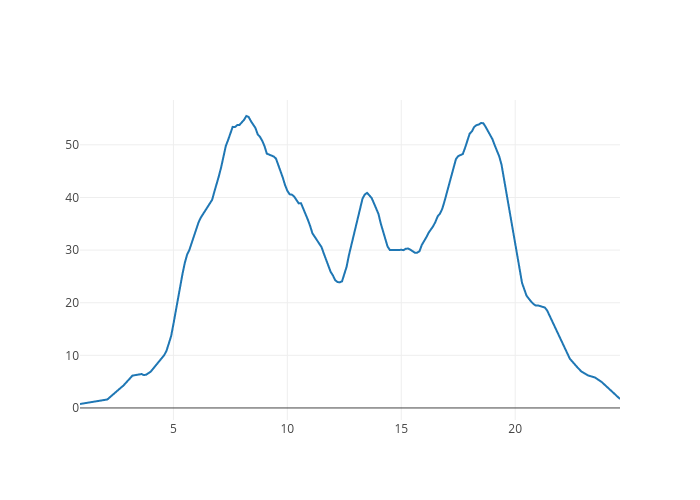
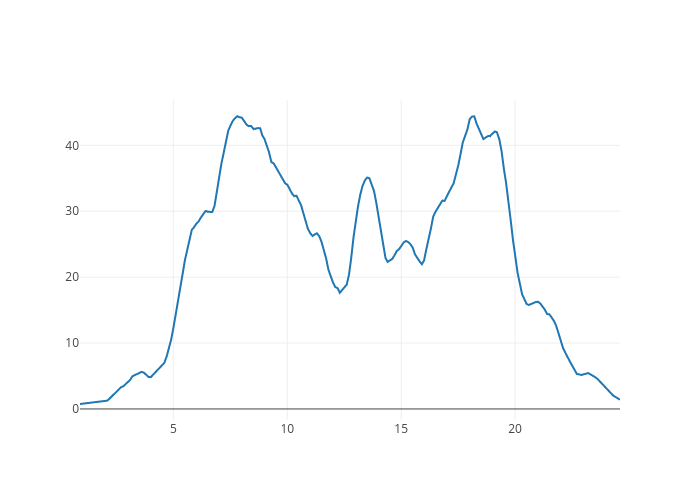
Divided samples visualization improved

diff --git a/Lab1/Tools/params_estimation.py b/Lab1/Tools/params_estimation.py
@@ -37,7 +37,7 @@ class Estimator:
         m = Distribution(sample)
         for i in range(100):
             sample_quantiles.append(m.count_quintile(i / 100))
-        theory_quantiles = get_quantiles([i/100 for i in range(100)],theory_params[0], theory_params[1])
+        theory_quantiles = get_quantiles([i / 100 for i in range(100)], theory_params[0], theory_params[1])
         q_q_biplot(sample_quantiles, theory_quantiles, name + '.png')
 
     # normal&lognormal distrib
@@ -55,11 +55,11 @@ class Estimator:
             del list_of_samples[-1]
             list_of_samples[-1] += m
         res_list_of_samples, mean, std = self.method_of_moments(list_of_samples, 'normal')
-        self.show_result([i/5 for i in range(130)], mean, std)
+        self.show_result(res_list_of_samples, [i / 5 for i in range(130)], mean, std)
         for i in range(len(list_of_samples)):
             self.get_q_q_plot(list_of_samples[i], [mean[i], std[i]], 'qq_plot_' + str(i))
 
-    def show_result(self, int, mean, sd, type='normal'):
+    def show_result(self,res_list_of_samples, int, mean, sd, type='normal'):
         arr = []
         for i in range(len(mean)):
             tmp_arr = []
@@ -74,10 +74,15 @@ class Estimator:
         names = []
         for i in range(len(mean)):
             names += ['Gaussian' + str(i)]
+        nbins = [17, 4, 17]
+        for i in range(len(arr)):
+            sample_plot(res_list_of_samples[i], int, arr[i], "Samples"+str(i)+"_div.png",nbins[i])
         plot_on_one_graph(self.values, int, arr, 'Samples_divided.png', names)
 
     def mlm(self, sample):
         m = Distribution(sample)
+        mean = m.mean
+        sd = m.count_biased_variance()
 
 
     def method_of_quintiles(self, sample, type='lognormal'):
@@ -138,7 +143,7 @@ class Estimator:
             list_of_samples = copy.deepcopy(new_list_of_samples)
         print("Estimated parameters with method of moments")
         for i in range(len(mean)):
-            print("Sample",i,"mean:",mean[i],"sd:",standard_dev[i])
+            print("Sample", i, "mean:", mean[i], "sd:", standard_dev[i])
         return list_of_samples, mean, standard_dev
 
     def params_validation(self):

diff --git a/Lab1/Tools/vis.py b/Lab1/Tools/vis.py
@@ -16,8 +16,11 @@ path_to_figure = 'Figures\\'
 
 def plot_histogram(sample, name):
     x = np.array(sample)
-    data = [go.Histogram(x=x)]
-    fig = go.Figure(data=data)
+    data = [go.Histogram(x=x, histnorm='probability')]
+    layout = dict(
+        xaxis=dict(title="values")
+    )
+    fig = go.Figure(data=data, layout=layout)
     image.save_as(fig, filename=path_to_figure + name)
 
 
@@ -33,8 +36,23 @@ def plot_kernel_density(sample, y, name):
     image.save_as(fig, filename=path_to_figure + name)
 
 
+def sample_plot(sample, x, y, name, nbinsx=20):
+    sample = np.array(sample)
+    trace = [go.Scatter(
+        x=np.array(x),
+        y=np.array(y),
+    )]
+    layout = dict(
+        xaxis=dict(title="values")
+    )
+    data = [go.Histogram(x=sample, histnorm='probability',nbinsx=nbinsx)]
+    data += trace
+    fig = go.Figure(data=data, layout=layout)
+    image.save_as(fig, filename=path_to_figure + name)
+
+
 def plot_on_one_graph(sample, xx, y, name, kernels):
-    x = np.array(sample)
+    # x = np.array(sample)
     trace_list = []
     for t in range(len(y)):
         xr = np.array(xx)
@@ -44,6 +62,7 @@ def plot_on_one_graph(sample, xx, y, name, kernels):
             y=z,
             name=kernels[t]
         )]
+    # data = [go.Histogram(x=x, histnorm='probability')]
     data = trace_list
     fig = go.Figure(data=data)
     plot(fig)
@@ -74,5 +93,5 @@ def _test_print_norm(m, s, int):
     fig, ax = plt.subplots(1, 1)
     int = np.linspace(0, 26, 26)
     print(norm.pdf(int, loc=m, scale=s))
-    #ax.plot(int, norm.pdf(int, loc=m, scale=s), 'r-', lw=5, alpha=0.6, label='norm pdf')
-    #fig.show()
+    # ax.plot(int, norm.pdf(int, loc=m, scale=s), 'r-', lw=5, alpha=0.6, label='norm pdf')
+    # fig.show()

diff --git a/Lab1/Tools/stats.py b/Lab1/Tools/stats.py
@@ -70,7 +70,11 @@ class Distribution:
 
         self.variance = sum([(val - self.mean) ** 2 for val in self.values]) \
                         / (len(self.values) - 1)
-        return
+
+    def count_biased_variance(self):
+
+        self.biased_variance = sum([(val - self.mean) ** 2 for val in self.values]) \
+                        / (len(self.values))
 
     def count_quartile(self):
 
@@ -124,6 +128,7 @@ class Distribution:
         print('Variance:', self.variance)
         print('Standard deviation:', self.standard_deviation)
         print('Quartiles:', self.quartiles)
+
 
     def kernel_density(self, h):
 

diff --git a/Lab1/main.py b/Lab1/main.py
@@ -16,7 +16,7 @@ def main():
     random.seed(42)
     max_deg = [x + 0.01 * random.random() for x in max_deg]
     m = Distribution(max_deg)
-    # m.show_histogram()
+    m.show_histogram()
 
     # m.kernel_density(1)
 

diff --git a/Lab1/Tools/simulation.py b/Lab1/Tools/simulation.py
@@ -1,3 +1,4 @@
+import scipy.stats
 
 
 class Simulator:
